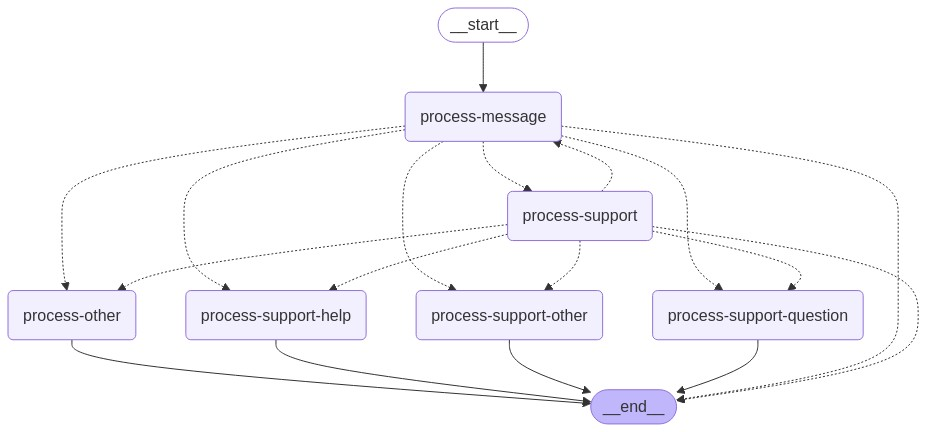
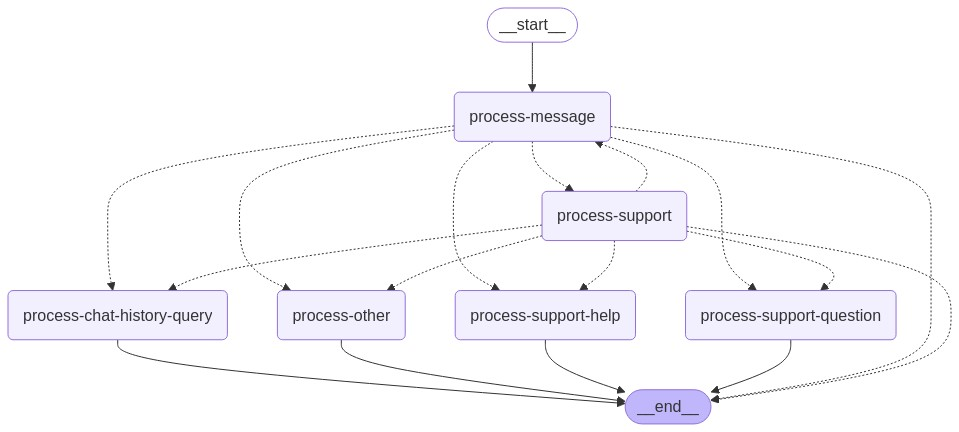
feat: chat with prev msgs in one node
- remove some unnecessary nodes which I felt is not so helpful

diff --git a/src/nodes.ts b/src/nodes.ts
@@ -1,7 +1,13 @@
 import { type State, type Update } from "./graph.js";
 import { ChatOpenAI } from "@langchain/openai";
 import { z } from "zod";
-import { HELP, OTHER, QUESTION, SUPPORT } from "../types/types.js";
+import {
+  CHAT_HISTORY_QUERY,
+  HELP,
+  OTHER,
+  QUESTION,
+  SUPPORT,
+} from "../types/types.js";
 
 const model = "gpt-3.5-turbo";
 
@@ -15,8 +21,9 @@ export const processMessage = async (state: State): Promise<Update> => {
 
   const structuredLlm = llm.withStructuredOutput(
     z.object({
-      type: z.enum([SUPPORT, OTHER]).describe(`
-The type of the message. It can be either ${OTHER} or ${SUPPORT}.
+      type: z.enum([SUPPORT, OTHER, CHAT_HISTORY_QUERY]).describe(`
+The type of the message. It can be either ${OTHER}, ${SUPPORT}, or ${CHAT_HISTORY_QUERY}.
+${CHAT_HISTORY_QUERY} is for when the user is asking about previous conversations
 `),
     }),
   );
@@ -24,17 +31,94 @@ The type of the message. It can be either ${OTHER} or ${SUPPORT}.
   const res = await structuredLlm.invoke([
     [
       "system",
-      `You are an expert message analyzer AI. You are given a message and you need
-to categorize the message into either ${OTHER} or ${SUPPORT} category.
+      `You are an expert message analyzer AI. You need to categorize the message into
+one of these categories:
+
+- ${SUPPORT}: When the message is asking for technical support or help with a problem.
+- ${OTHER}: When the message is a spam or a general conversation or an off topic.
+- ${CHAT_HISTORY_QUERY}: When the message is specifically asking about previous conversations. Also use this category when the user
+  is trying to search or reference past conversations.
+
+Be particularly attentive to messages that mention CopilotKit, AI Agents, LLMs, or refer to
+previous messages/conversations or anything about AI.
 `,
     ],
     ["human", state.message.content],
   ]);
 
-  console.log("AI inferred", res.type);
+  console.log("AI inferred:", res.type);
 
   return {
     messageChoice: res.type,
+  };
+};
+
+export const processChatHistoryQuery = async (
+  state: State,
+): Promise<Update> => {
+  console.log("Processing chat history query", state.message);
+
+  const llm = new ChatOpenAI({
+    model,
+    apiKey: process.env.OPENAI_API_KEY,
+    temperature: 0.3,
+  });
+
+  const previousMessages = state.previousMessages || [];
+
+  const formattedPreviousMessages = previousMessages
+    .map((msg) => `${msg.author}: ${msg.content}`)
+    .join("\n");
+
+  const structuredLlm = llm.withStructuredOutput(
+    z.object({
+      isRelevantTopic: z
+        .boolean()
+        .describe(
+          "Whether the query is about a permitted topic like AI, LLMs and CopilotKit",
+        ),
+      topicName: z.string().describe("The main topic of the query"),
+      response: z
+        .string()
+        .describe("The response to the query based on chat history"),
+    }),
+  );
+
+  const res = await structuredLlm.invoke([
+    [
+      "system",
+      `You are a specialized support bot that ONLY responds to queries about AI Copilots,
+with a focus on CopilotKit. If the query is not about AI Copilots or CopilotKit, indicate that
+it's not a relevant topic. You should analyze the chat history to provide context-aware responses.
+
+Permitted topics include:
+- AI Copilots
+- LLMs / AI Agents / AI
+- LangChain / LangGraph
+- CopilotKit
+
+DO NOT respond to queries about other topics or personal matters not related to AI Copilots.
+
+Here is the recent chat history for context:
+${formattedPreviousMessages}
+      `,
+    ],
+    ["human", state.message.content],
+  ]);
+
+  console.log("Chat history query analysis:", res);
+
+  return {
+    chatHistoryResponse: {
+      isRelevantTopic: res.isRelevantTopic,
+      topicName: res.topicName,
+      response: res.isRelevantTopic
+        ? res.response
+        : "I'm sorry, I'm only able to help with AI and LLMs in general with main focus on CopilotKit.",
+      relevantMessages: previousMessages.filter((msg) =>
+        msg.content.toLowerCase().includes(res.topicName.toLowerCase()),
+      ),
+    },
   };
 };
 
@@ -60,7 +144,10 @@ The type of the support ticket. It can be either ${QUESTION} or ${HELP}.
       "system",
       `
 You are an expert support ticket analyzer AI. You are given a message and you need
-to categorize the message into either ${QUESTION} or ${HELP} category.
+to categorize the support message into either ${QUESTION} or ${HELP} category.
+
+- ${QUESTION}: When the message is asking for support question.
+- ${HELP}: When the message is asking for support help.
 `,
     ],
     ["human", state.message.content],
@@ -89,7 +176,6 @@ export const processSupportHelp = async (state: State): Promise<Update> => {
 
   // do something here, like create a support ticket
   // or open a thread tagging some mod
-  //
   return {};
 };
 
@@ -135,17 +221,10 @@ to generate a answer to this help message.
     supportTicket: {
       ...state.supportTicket,
       question: {
-        title: state.message.content,
+        description: state.message.content,
         answer: llmResponse,
         links: [],
-        ansFound: false,
       },
     },
   };
-};
-
-export const processSupportOther = async (state: State): Promise<Update> => {
-  console.log("message in support other category", state.message);
-  // do something here, like tagging mods
-  return {};
 };

diff --git a/src/graph.ts b/src/graph.ts
@@ -1,15 +1,16 @@
 import { Annotation, END, START, StateGraph } from "@langchain/langgraph";
 import {
+  type ChatHistoryResponse,
   type Message,
   type MessageChoice,
   type SupportTicket,
 } from "../types/types.js";
 import {
+  processChatHistoryQuery,
   processMessage,
   processOther,
   processSupport,
   processSupportHelp,
-  processSupportOther,
   processSupportQuestion,
 } from "./nodes.js";
 import { processMessageEdges, processSupportEdges } from "./edges.js";
@@ -19,12 +20,13 @@ const state = Annotation.Root({
   previousMessages: Annotation<Message[]>(),
   messageChoice: Annotation<MessageChoice>(),
   supportTicket: Annotation<SupportTicket>(),
+  chatHistoryResponse: Annotation<ChatHistoryResponse>(),
 });
 
 export type State = typeof state.State;
 export type Update = typeof state.Update;
 
-export async function initializeGraph() {
+export function initializeGraph() {
   const workflow = new StateGraph(state);
 
   workflow
@@ -34,21 +36,23 @@ export async function initializeGraph() {
 
     .addNode("process-support-question", processSupportQuestion)
     .addNode("process-support-help", processSupportHelp)
-    .addNode("process-support-other", processSupportOther)
+    .addNode("process-chat-history-query", processChatHistoryQuery)
 
+    // Edges setup starts
     .addEdge(START, "process-message")
     .addConditionalEdges("process-message", processMessageEdges)
     .addConditionalEdges("process-support", processSupportEdges)
 
+    .addEdge("process-chat-history-query", END)
     .addEdge("process-other", END)
     .addEdge("process-support-question", END)
-    .addEdge("process-support-help", END)
-    .addEdge("process-support-other", END);
+    .addEdge("process-support-help", END);
 
   const graph = workflow.compile();
 
   // To get the graph in png
-  Bun.write("graph/graph.png", await graph.getGraph().drawMermaidPng());
+  // getGraph() is deprecated though
+  // Bun.write("graph/graph.png", await graph.getGraph().drawMermaidPng());
 
   return graph;
 }

diff --git a/src/index.ts b/src/index.ts
@@ -1,6 +1,6 @@
 import dotenv from "dotenv";
 import { Client, Events, GatewayIntentBits } from "discord.js";
-import { initializeGraph, type State } from "./graph.js";
+import { initializeGraph } from "./graph.js";
 import { type Message } from "../types/types.js";
 import { tryCatch } from "../utils/try-catch.js";
 
@@ -56,15 +56,38 @@ client.on(Events.MessageCreate, async (readyClient) => {
     message: {
       author: readyClient.author.username,
       content: userMessage,
-    },
+    } as Message,
     previousMessages: lastFewMessages,
-  } as State;
+  };
 
   try {
     const finalState = await graph.invoke(graphInput);
     console.log(finalState);
+
+    // Currently, I'm simply sending a msg, but depending on the context
+    // we can create an embed, tag relevant mods or anything else.
+    // Once confirmed with the team, I'll implement this.
+    if (finalState.chatHistoryResponse) {
+      const response = finalState.chatHistoryResponse.isRelevantTopic
+        ? finalState.chatHistoryResponse.response
+        : "I'm sorry, I'm only able to help with AIs and CopilotKit";
+      await readyClient.reply(response);
+      return;
+    }
+
+    if (finalState.supportTicket?.question?.answer) {
+      await readyClient.reply(finalState.supportTicket.question.answer);
+      return;
+    }
+
+    await readyClient.reply(
+      "I'm not sure if I have a response to this request :(",
+    );
   } catch (error) {
     console.error("Error generating AI response:", error);
+    await readyClient.reply(
+      "Sorry, I encountered an error while processing your request.",
+    );
   }
 });
 

diff --git a/src/edges.ts b/src/edges.ts
@@ -1,13 +1,24 @@
 import { END } from "@langchain/langgraph";
 import { type State } from "./graph.js";
-import { QUESTION, OTHER, SUPPORT, HELP } from "../types/types.js";
+import {
+  QUESTION,
+  OTHER,
+  SUPPORT,
+  CHAT_HISTORY_QUERY,
+} from "../types/types.js";
 
 export const processMessageEdges = (
   state: State,
-): "process-support" | "process-other" | "__end__" => {
+):
+  | "process-support"
+  | "process-other"
+  | "process-chat-history-query"
+  | "__end__" => {
   switch (state.messageChoice) {
     case SUPPORT:
       return "process-support";
+    case CHAT_HISTORY_QUERY:
+      return "process-chat-history-query";
     case OTHER:
       return "process-other";
 
@@ -16,9 +27,10 @@ export const processMessageEdges = (
   }
 };
 
-export const processSupportEdges = (state: State) => {
-  if (state.supportTicket.type === QUESTION) return "process-support-question";
-  if (state.supportTicket.type === HELP) return "process-support-help";
-
-  return "process-support-other";
+export const processSupportEdges = (
+  state: State,
+): "process-support-question" | "process-support-help" => {
+  return state.supportTicket.type === QUESTION
+    ? "process-support-question"
+    : "process-support-help";
 };

diff --git a/types/types.ts b/types/types.ts
@@ -3,25 +3,35 @@ export const QUESTION = "QUESTION";
 export const HELP = "HELP";
 export const SUPPORT = "SUPPORT";
 export const OTHER = "OTHER";
+export const CHAT_HISTORY_QUERY = "CHAT_HISTORY_QUERY";
 
-export type MessageChoice = typeof SUPPORT | typeof OTHER;
-export type SupportChoice = typeof QUESTION | typeof HELP | typeof OTHER;
+export type MessageChoice =
+  | typeof SUPPORT
+  | typeof CHAT_HISTORY_QUERY
+  | typeof OTHER;
+export type SupportChoice = typeof QUESTION | typeof HELP;
 
 export type Message = {
   author: string;
   content: string;
 };
 
+export type ChatHistoryResponse = {
+  isRelevantTopic: boolean;
+  topicName: string;
+  response: string;
+  relevantMessages: Message[];
+};
+
 export type SupportTicket = {
-  userId: string;
+  userName: string;
   type: SupportChoice;
   help?: {
     description: string;
   };
   question?: {
-    title: string;
+    description: string;
     answer?: string;
     links: string[];
-    ansFound: boolean;
   };
 };
